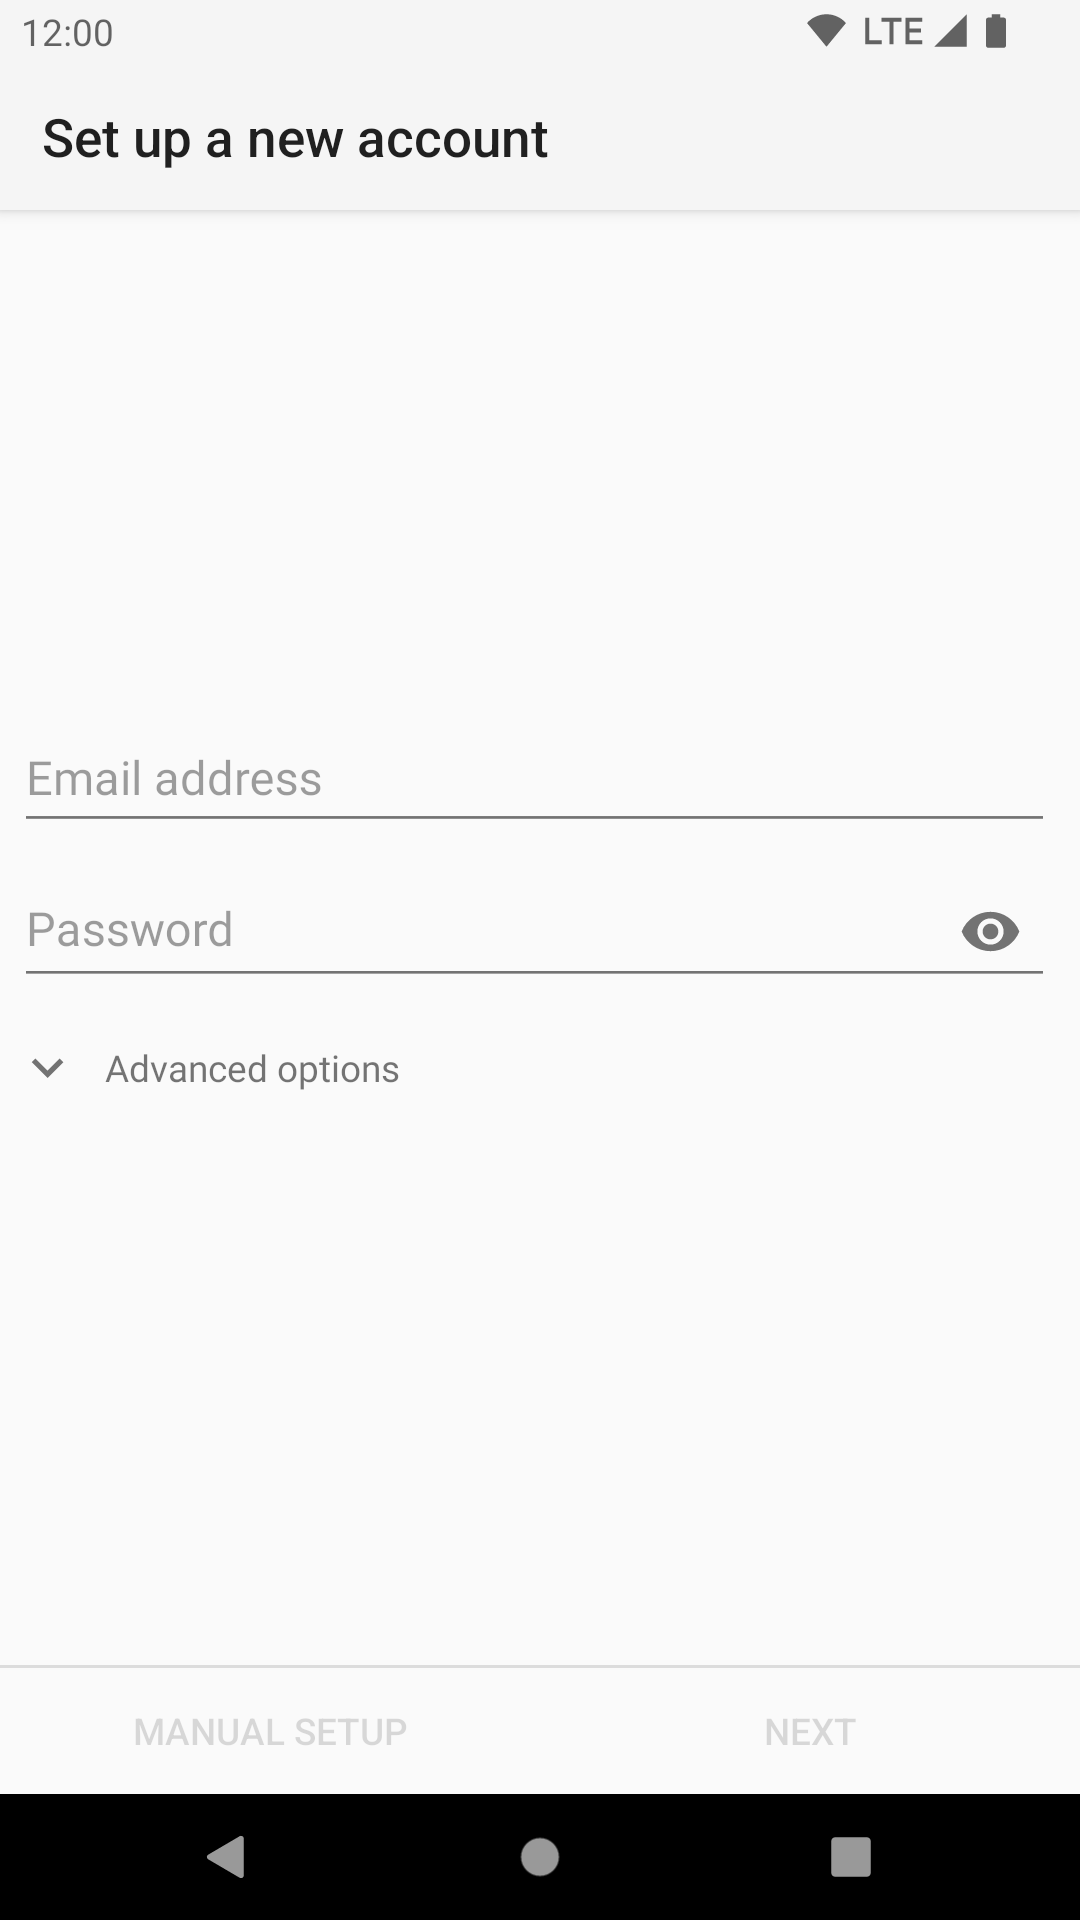
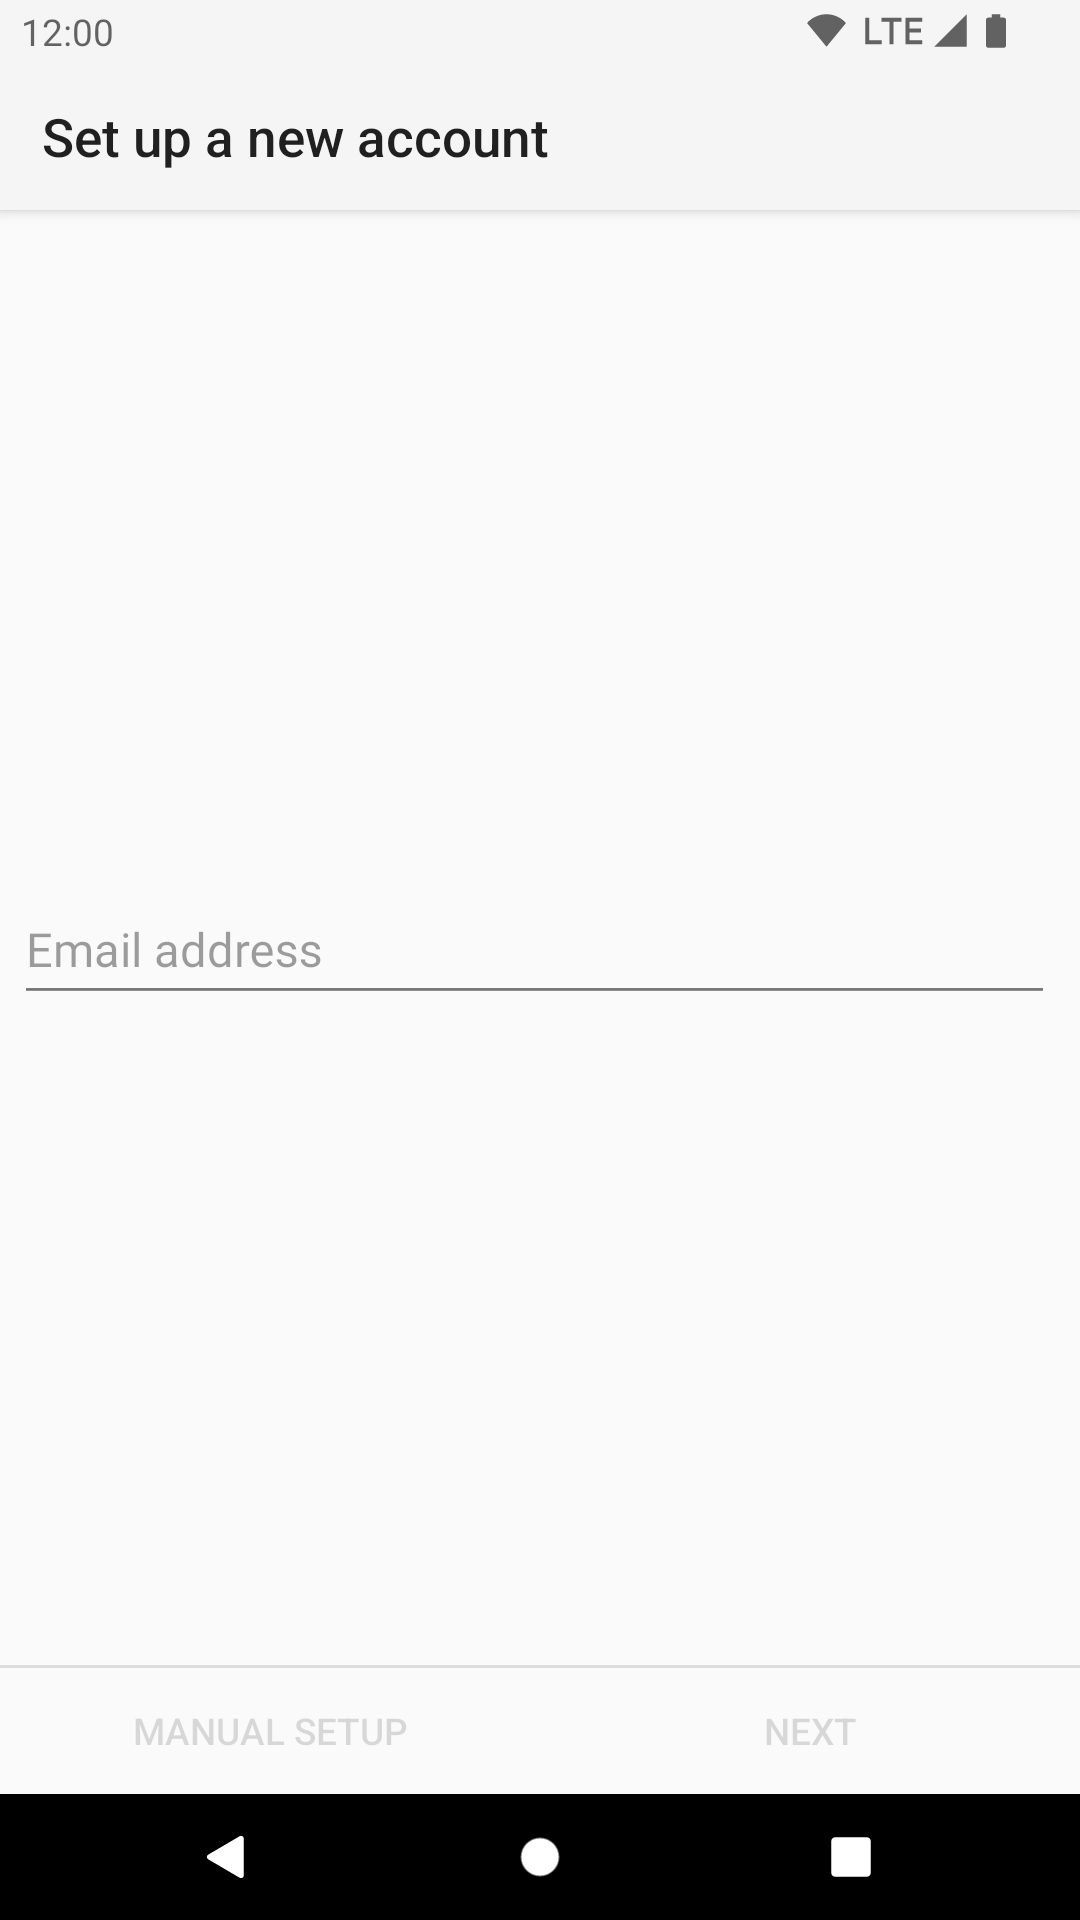
Add OAuth 2.0 flow to "add an account" page

diff --git a/docs/en/current/accounts/add.md b/docs/en/current/accounts/add.md
@@ -4,16 +4,25 @@ The account set-up wizard will launch automatically after the [Welcome Screen](.
 For any additional accounts they can be added by going to the accounts menu, 
 and then tapping the "Add account" option in the overflow menu.
 
-First you are asked for your email address and password.
+First you are asked for your email address.
 
-The buttons "Manual setup" and "Next" become only activated after a correctly formatted email address and a password
-have been typed in.
+![Screen to enter email address and password](img/account_setup_step1_empty.png)
 
-![Screen to enter email address and password](img/account_setup_step1_empty.png) ![Email address and password filled in](img/account_setup_step1_filled_in.png)
+The buttons "Manual setup" and "Next" become only activated after a correctly formatted email address has been typed in.
+
+If the email address belongs to a known email provider that requires the use of OAuth 2.0 (currently: Gmail, Yahoo, AOL, Hotmail/Outlook), you'll see the following screen.
+
+![Sign in screen](img/account_setup_step1_sign_in.png)
+
+Tapping the "sign in" button will open the browser so you can authorize K-9 Mail to access your emails.
+
+
+For all other providers, you'll be asked to provide your email password.
+
+![Email address and password filled in](img/account_setup_step1_filled_in.png)
 
 If you choose "Next" and the domain part of your email address is known to K-9 Mail, the connection settings for the 
-incoming and outgoing server are automatically set up for you. This is the case for some large email providers, 
-e.g. Gmail, Yahoo!, and AOL.
+incoming and outgoing server are automatically set up for you. This is the case for some large email providers.
 
 We also list information on the settings for major e-mail providers [in the FAQ](https://forum.k9mail.app/c/faq/6).
 
